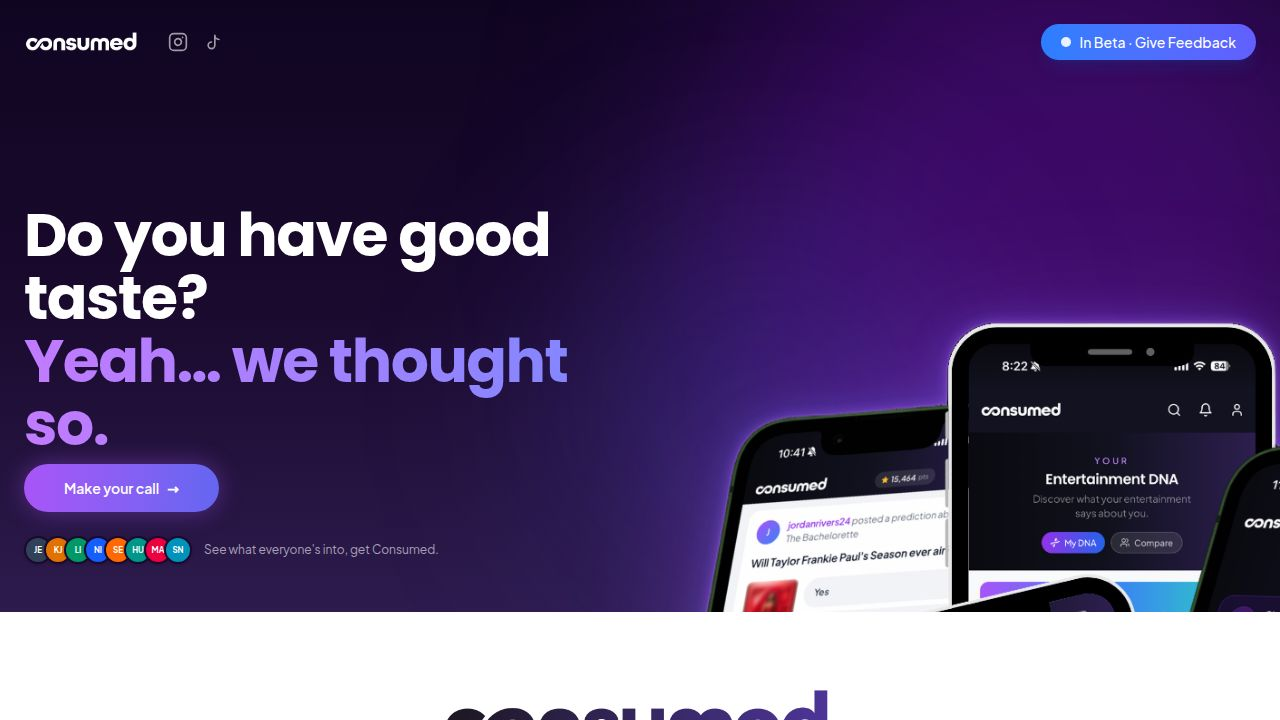
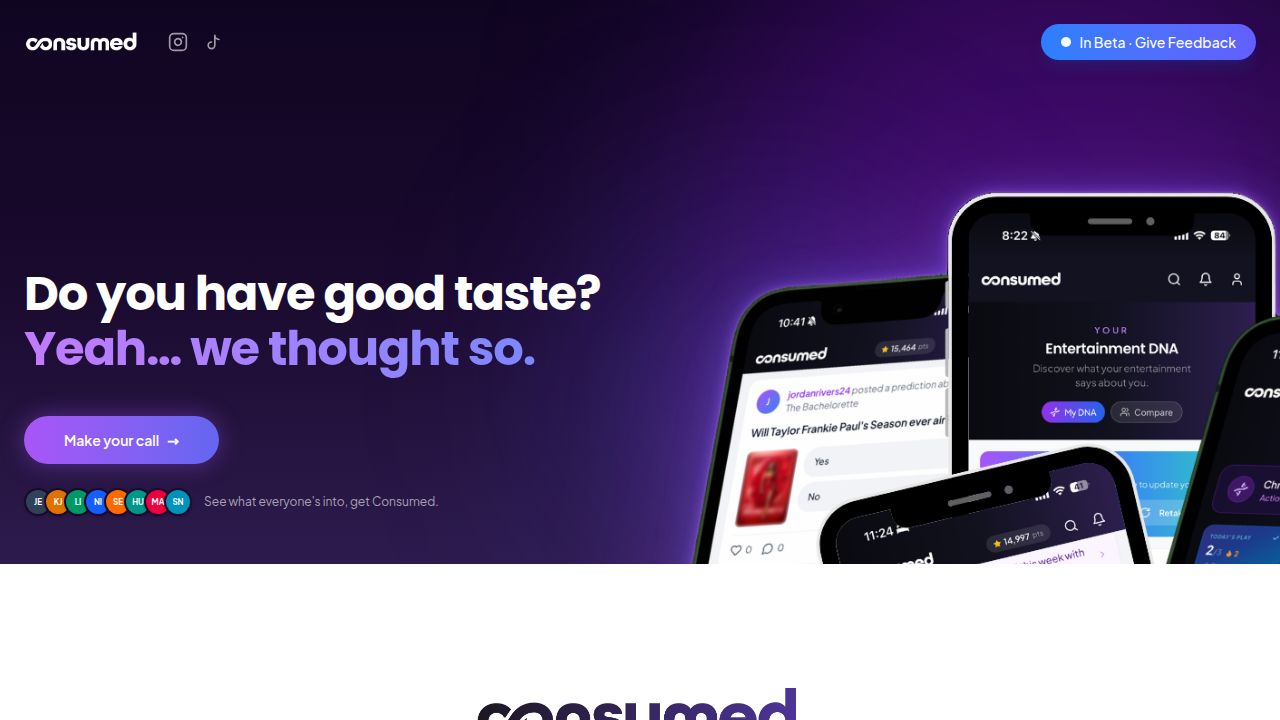
Improve website layout and responsiveness for mobile devices
Updates include adjusting hero section text alignment, refining spacing between text and buttons, and applying flex-wrap to card elements to prevent overflow on smaller screens.

Replit-Commit-Author: Agent
Replit-Commit-Session-Id: 1054afe4-a81a-4bfc-9d50-b308ff59b433
Replit-Commit-Checkpoint-Type: full_checkpoint
Replit-Commit-Event-Id: 6f12a8aa-2abf-44ac-9805-3093d23053d6
Replit-Commit-Screenshot-Url: https://storage.googleapis.com/screenshot-production-us-central1/3ba4014b-a542-439a-b8e3-25ffaea1718b/1054afe4-a81a-4bfc-9d50-b308ff59b433/g0cjvLr
Replit-Helium-Checkpoint-Created: true

diff --git a/client/src/pages/home.tsx b/client/src/pages/home.tsx
@@ -329,10 +329,10 @@ export default function Home() {
               className="h-12 md:h-16 lg:h-20 w-auto -mb-1 md:-mb-2"
               data-testid="img-logo-purple-section"
             />
-            <h2 className="text-2xl md:text-3xl lg:text-4xl font-bold tracking-tight leading-[1.15] pb-2 font-heading whitespace-nowrap bg-gradient-to-r from-[#a855f7] to-[#6366f1] bg-clip-text text-transparent">
-              Where entertainment gets played.
+            <h2 className="text-2xl md:text-3xl lg:text-4xl font-bold tracking-tight leading-[1.15] pb-2 font-heading md:whitespace-nowrap text-center bg-gradient-to-r from-[#a855f7] to-[#6366f1] bg-clip-text text-transparent">
+              Where entertainment <br className="md:hidden" />gets played.
             </h2>
-            <p className="mt-2 text-[10px] md:text-xs uppercase tracking-[0.3em] text-zinc-500 font-light font-body">
+            <p className="mt-2 text-[9px] md:text-xs uppercase tracking-[0.25em] md:tracking-[0.3em] text-zinc-500 font-light font-body text-center px-2">
               Track what you consume. Play what you know.
             </p>
             <a
@@ -514,7 +514,7 @@ export default function Home() {
         >
           <div className="grid grid-cols-1 md:grid-cols-2 gap-6 md:gap-8 items-stretch">
             {/* Hot Take Card */}
-            <div className="bg-white rounded-3xl border border-zinc-100 shadow-lg p-6 md:p-8 flex items-center gap-6" data-testid="card-hot-take">
+            <div className="bg-white rounded-3xl border border-zinc-100 shadow-lg p-6 md:p-8 flex flex-col sm:flex-row sm:items-center gap-6" data-testid="card-hot-take">
               <div className="flex-1 min-w-0">
                 <div className="flex items-center gap-2 mb-3">
                   <p className="text-[10px] uppercase tracking-[0.2em] text-[#6b21a8] font-semibold font-body">Cast your vote</p>
@@ -557,7 +557,7 @@ export default function Home() {
 
             {/* Rating Card — Star Wars */}
             <div className="bg-white rounded-3xl border border-zinc-100 shadow-lg p-6 md:p-8" data-testid="card-rating">
-              <div className="flex items-center gap-2 mb-4">
+              <div className="flex items-center gap-2 mb-4 flex-wrap">
                 <p className="text-[10px] uppercase tracking-[0.2em] text-[#6b21a8] font-semibold font-body">What's your take?</p>
                 <span className="text-[10px] uppercase tracking-wider text-violet-700 bg-violet-100 px-2 py-0.5 rounded-full font-body font-semibold">Movie</span>
                 <span className="ml-auto text-[10px] text-zinc-500 bg-zinc-100 px-2 py-0.5 rounded-full font-body">+10 pts</span>
@@ -618,7 +618,7 @@ export default function Home() {
 
             {/* Prediction Card — Dancing with the Stars */}
             <div className="bg-white rounded-3xl border border-zinc-100 shadow-lg p-6 md:p-8" data-testid="card-prediction">
-              <div className="flex items-center gap-2 mb-4">
+              <div className="flex items-center gap-2 mb-4 flex-wrap">
                 <p className="text-[10px] uppercase tracking-[0.2em] text-[#6b21a8] font-semibold font-body">Prediction</p>
                 <span className="text-[10px] uppercase tracking-wider text-violet-700 bg-violet-100 px-2 py-0.5 rounded-full font-body font-semibold">DWTS</span>
                 <span className="ml-auto text-[10px] text-zinc-500 bg-zinc-100 px-2 py-0.5 rounded-full font-body">+25 pts</span>
@@ -667,7 +667,7 @@ export default function Home() {
 
             {/* Binge Battle Card — Book series */}
             <div className="bg-white rounded-3xl border border-zinc-100 shadow-lg p-6 md:p-8" data-testid="card-binge-battle">
-              <div className="flex items-center gap-2 mb-4">
+              <div className="flex items-center gap-2 mb-4 flex-wrap">
                 <p className="text-[10px] uppercase tracking-[0.2em] text-[#6b21a8] font-semibold font-body">Binge battle</p>
                 <span className="text-[10px] uppercase tracking-wider text-violet-700 bg-violet-100 px-2 py-0.5 rounded-full font-body font-semibold">Book</span>
                 <span className="ml-auto text-[10px] text-zinc-500 bg-zinc-100 px-2 py-0.5 rounded-full font-body">+15 pts</span>
